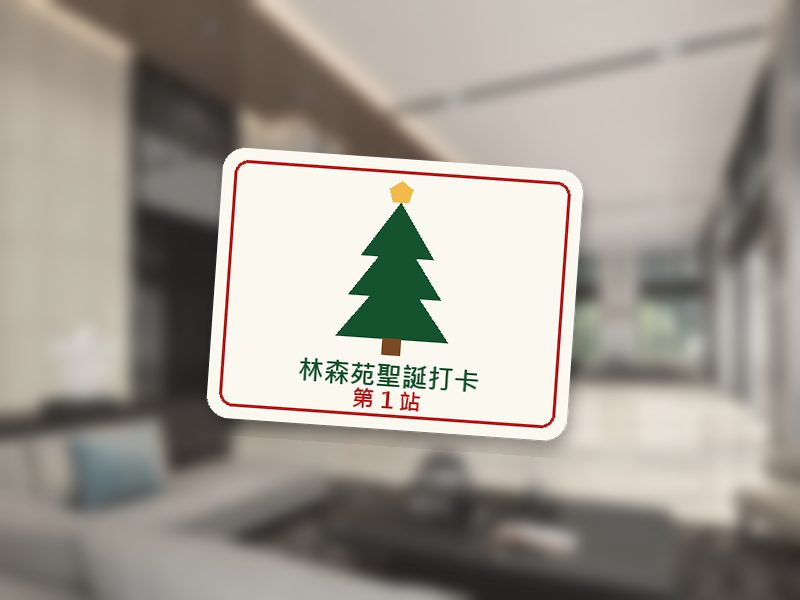
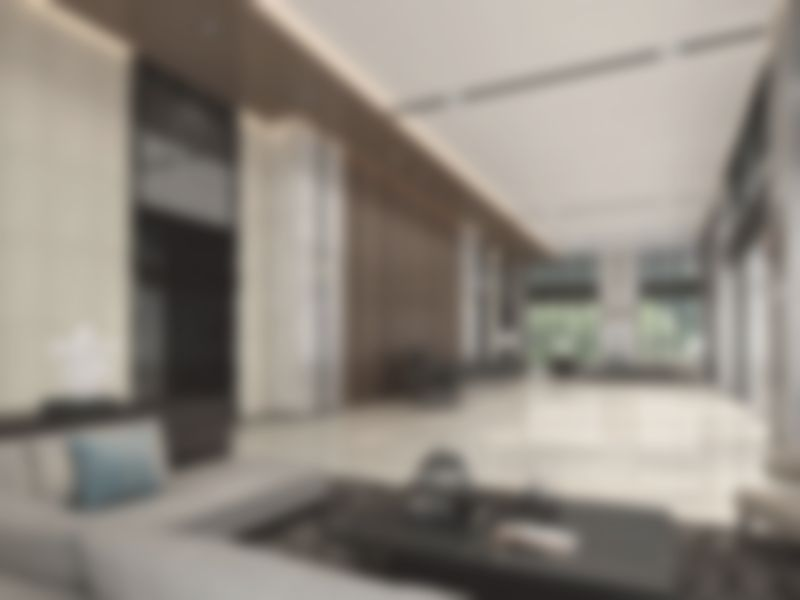
Add files via upload

Changed region(s): [[0.25, 0.24, 0.75, 0.75]]

diff --git a/xmas/index.html b/xmas/index.html
@@ -218,6 +218,15 @@ body.is-admin .brand-title{color:var(--pine)!important;text-shadow:none}
 .st-pend-t{color:var(--amber)}
 .st-rej-t{color:var(--berry)}
 .spot-hint{margin-bottom:0}
+
+.spot-scene{position:relative;width:100%;aspect-ratio:4/3;border-radius:var(--radius-sm);overflow:hidden;background:var(--pine-light);box-shadow:0 3px 12px rgba(20,83,45,.18)}
+.spot-scene .spot-img{position:absolute;inset:0;width:100%;height:100%;max-height:none;object-fit:cover;border:none;outline:none;box-shadow:none;border-radius:0}
+.spot-card{position:absolute;left:50%;top:50%;width:46%;aspect-ratio:4/3;border-radius:9% / 12%;box-shadow:0 8px 18px rgba(0,0,0,.35);overflow:hidden;background:#FBF8F0}
+.spot-card.ra{transform:translate(-50%,-50%) rotate(-4deg)}
+.spot-card.rb{transform:translate(-50%,-50%) rotate(3deg)}
+.spot-card svg{display:block;width:100%;height:100%}
+.spot-card.mine{width:auto;height:82%;aspect-ratio:1/1;border:4px solid #fff;border-radius:10px;background:#fff}
+.spot-card.mine img{display:block;width:100%;height:100%;object-fit:cover}
 </style>
 </head>
 <body>
@@ -413,6 +422,31 @@ async function mockPost(event, p){
 }
 
 /* ============ 住戶畫面 ============ */
+
+/* ---- 自己上傳的照片縮圖：只存在這支手機（照片本身在後端是私人的） ---- */
+const PHOTO_KEY = 'ls-xmas-photos';
+function myPhotoKey(spotId){ return me ? `${me.hao}-${me.lou}-${me.zhi}-${spotId}` : ''; }
+function loadMyPhotos(){ try{ return JSON.parse(localStorage.getItem(PHOTO_KEY) || '{}') || {}; }catch(e){ return {}; } }
+function getMyPhoto(spotId){ return loadMyPhotos()[myPhotoKey(spotId)] || ''; }
+function saveMyPhoto(spotId, dataUrl){
+  try{
+    const all = loadMyPhotos(); all[myPhotoKey(spotId)] = dataUrl;
+    localStorage.setItem(PHOTO_KEY, JSON.stringify(all));
+  }catch(e){}
+}
+function makeThumb(dataUrl){
+  return new Promise(resolve => {
+    const img = new Image();
+    img.onload = () => {
+      const k = Math.min(1, 640 / Math.max(img.width, img.height));
+      const c = document.createElement('canvas'); c.width = Math.round(img.width * k); c.height = Math.round(img.height * k);
+      c.getContext('2d').drawImage(img, 0, 0, c.width, c.height);
+      resolve(c.toDataURL('image/jpeg', 0.7));
+    };
+    img.onerror = () => resolve('');
+    img.src = dataUrl;
+  });
+}
 function loadMe(){ try{ const s = JSON.parse(localStorage.getItem(ID_KEY) || 'null'); return (s && s.hao && s.name) ? s : null; }catch(e){ return null; } }
 function saveMe(v){ try{ localStorage.setItem(ID_KEY, JSON.stringify(v)); }catch(e){} }
 
@@ -497,10 +531,14 @@ async function refreshStatus(){
   }catch(e){ toast(e.message, true); }
 }
 
+function cardSvg(n){
+  return `<svg viewBox="0 0 360 270" aria-hidden="true"><rect width="360" height="270" rx="20" fill="#FBF8F0"/><rect x="12" y="12" width="336" height="246" rx="13" fill="none" stroke="#B91C1C" stroke-width="3"/><polygon points="180,34 187,48 202,48 190,57 195,72 180,63 165,72 170,57 158,48 173,48" fill="#F2B94B"/><path d="M180 52L216 106H198L226 146H204L236 188H124L156 146H134L162 106H144Z" fill="#14532D"/><rect x="171" y="188" width="18" height="16" fill="#7A4A24"/><text x="180" y="226" text-anchor="middle" font-size="25" font-weight="900" fill="#14532D" font-family="'Noto Sans TC','Microsoft JhengHei',sans-serif">林森苑聖誕打卡</text><text x="180" y="250" text-anchor="middle" font-size="20" font-weight="700" fill="#B91C1C" font-family="'Noto Sans TC','Microsoft JhengHei',sans-serif">第 ${n} 站</text></svg>`;
+}
 function renderProgress(){
   const box = $('progressCard');
   if(!cfg) return;
-  if(!me){ box.innerHTML = `<h2>打卡進度</h2><p class="muted" style="margin:0">填好住戶資料後，這裡會顯示 5 個地點的打卡進度。</p>`; return; }
+  box.classList.toggle('hidden', !me);   // 還沒填住戶資料時，整個進度區塊先不顯示
+  if(!me){ box.innerHTML = ''; return; }
   const st = status || {};
   const spots = cfg.spots;
   const ok = spots.filter(s => st[s.id] && st[s.id].status === '通過').length;
@@ -509,6 +547,7 @@ function renderProgress(){
   const rows = spots.map(s => {
     const x = st[s.id] || {status:'', attempts:0};
     // 圓圈：尚未打卡（紅）→ 打卡；已打卡（綠）→ 重新打卡；通過後也可重新打卡（傳錯照片時用，新照片會重新審核）
+    const mine = (x.status === '通過' || x.status === '待審核') ? getMyPhoto(s.id) : '';
     let badge = '尚未打卡', done = false, chip = '', btn = '打卡';
     if(x.status === '通過'){ badge = '已打卡'; done = true; btn = '重新打卡'; }
     else if(x.status === '待審核'){ badge = '已打卡'; done = true; chip = '<span class="st-tag st-pend-t">（審核中）</span>'; btn = '重新打卡'; }
@@ -518,7 +557,10 @@ function renderProgress(){
         <div class="spot-no${done ? ' done' : ''}">${badge}</div>
         <div class="spot-main"><div class="spot-name">第 ${s.id} 站${chip}</div><div class="spot-hint">${esc(s.hint || '')}</div></div>
       </div>
-      <img class="spot-img" src="images/spot${s.id}.jpg" alt="第 ${s.id} 站的卡牌" loading="lazy" onerror="if(!this.dataset.f){this.dataset.f=1;this.src='images/spot${s.id}.svg'}else{this.remove()}">
+      <div class="spot-scene" aria-label="第 ${s.id} 站">
+        <img class="spot-img" src="images/spot${s.id}.jpg" alt="" loading="lazy" onerror="this.remove()">
+        <div class="spot-card r${s.id % 2 ? 'a' : 'b'}${mine ? ' mine' : ''}">${mine ? `<img src="${mine}" alt="第 ${s.id} 站的打卡照片">` : cardSvg(s.id)}</div>
+      </div>
       ${btn && cfg.open ? `<button class="btn" data-spot="${s.id}">${btn}</button>` : ''}
     </div>`;
   }).join('');
@@ -621,6 +663,7 @@ function showUploadDialog(spot, photo){
     try{
       const res = await apiPost('submit', {hao:me.hao, lou:me.lou, zhi:me.zhi, name:me.name, spotId:spot.id, photo});
       status = res.status;
+      const th = await makeThumb(photo); if(th) saveMyPhoto(spot.id, th);
       busy = false; close();
       renderProgress();
     }catch(err){
